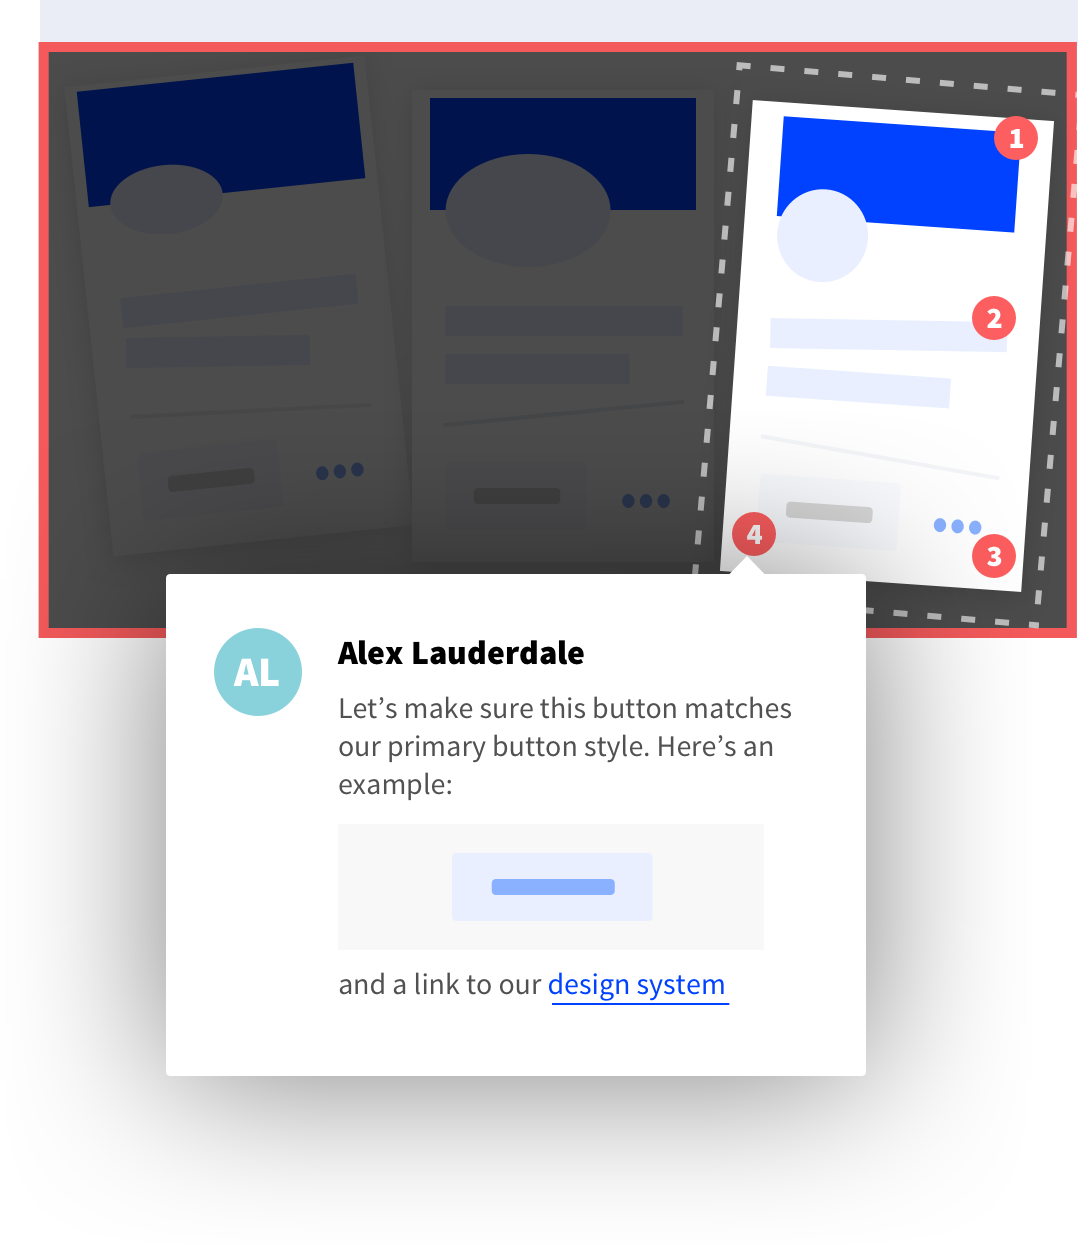
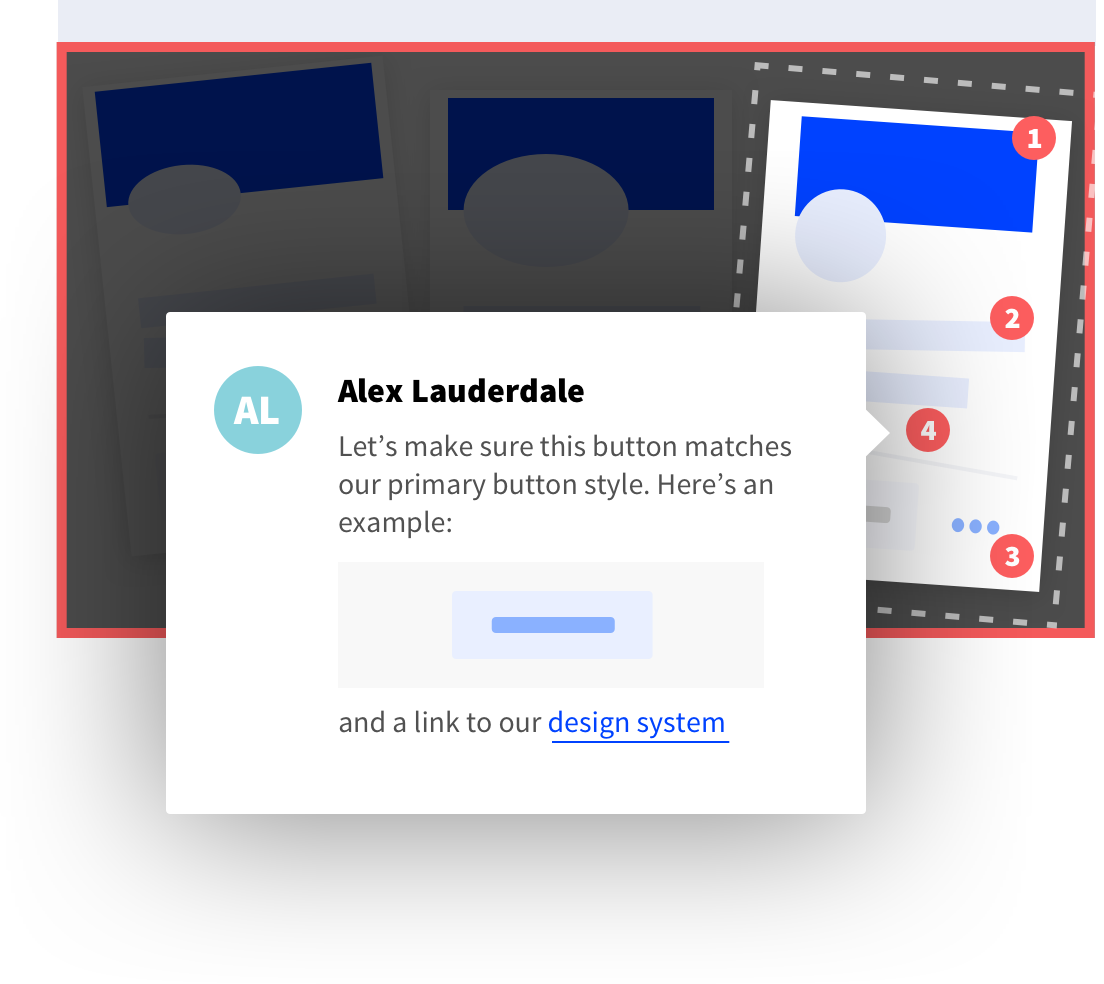
more

Changed region(s): [[0.0304, 0.0305, 1.0, 0.8841]]

diff --git a/tmp/product/review/index.html b/tmp/product/review/index.html
@@ -146,12 +146,12 @@ Notes
 </div>
 <div class='media-body'>
 <h5 class='bold-font quarter-margin-bottom'>
-Tonia
+Randal
 ,
-Giselle
+Doris
 </h5>
 <h5>
-id ut ut voluptatum adipisci accusantium dolor
+debitis eum consequatur enim rerum quas et
 </h5>
 <h6 class='light-text-color'>
 Comment left on
@@ -174,12 +174,12 @@ Mac OS 10.14.0
 </div>
 <div class='media-body'>
 <h5 class='bold-font quarter-margin-bottom'>
-Isabelle
+Kerry
 ,
-Lorie
+Dulce
 </h5>
 <h5>
-illum quis earum eos et voluptas est
+ipsa ipsum corrupti molestias harum praesentium sed
 </h5>
 <h6 class='light-text-color'>
 Comment left on
@@ -202,12 +202,12 @@ Mac OS 10.14.0
 </div>
 <div class='media-body'>
 <h5 class='bold-font quarter-margin-bottom'>
-Billie
+Elaine
 ,
-Darius
+Kerry
 </h5>
 <h5>
-perspiciatis eum explicabo minus ipsum perspiciatis quae
+ipsa occaecati dolor sed id dolor nam
 </h5>
 <h6 class='light-text-color'>
 Comment left on
@@ -230,12 +230,12 @@ Mac OS 10.14.0
 </div>
 <div class='media-body'>
 <h5 class='bold-font quarter-margin-bottom'>
-Camila
+Ciaran
 ,
-Agnes
+Kailey
 </h5>
 <h5>
-sint temporibus vero ut necessitatibus placeat dolorem
+voluptate facilis suscipit voluptatem delectus dignissimos voluptas
 </h5>
 <h6 class='light-text-color'>
 Comment left on
@@ -258,12 +258,12 @@ Mac OS 10.14.0
 </div>
 <div class='media-body'>
 <h5 class='bold-font quarter-margin-bottom'>
-Andres
+Maisie
 ,
-Shirley
+Billy
 </h5>
 <h5>
-aut mollitia blanditiis eveniet qui qui eveniet asperiores
+ea reprehenderit voluptas quia ratione nulla eum repudiandae
 </h5>
 <h6 class='light-text-color'>
 Comment left on
@@ -361,10 +361,10 @@ Delete
 </div>
 </div>
 <h4 class='bold-font quarter-margin-bottom'>
-Alberto Waters
+Omar O'Brien
 </h4>
 <h4>
-quo nobis nesciunt qui voluptatem rerum porro laudantium voluptatem inventore id tempora libero porro excepturi dolor enim recusandae officiis similique
+vel voluptates sapiente alias totam id numquam odit dolorum mollitia voluptas tempora accusamus debitis velit est doloremque ut sit qui
 </h4>
 <a href='#'>
 <img src='../../images/tmp/shot.png' width='85px'>
@@ -399,10 +399,10 @@ Delete
 </div>
 </div>
 <h4 class='bold-font quarter-margin-bottom'>
-Emely McNeill
+Colm Lane
 </h4>
 <h4>
-ut placeat adipisci magni a omnis odit delectus ratione quas a voluptatem laborum id voluptas eos voluptas dolores optio voluptatibus
+totam consequatur non quasi quidem veniam officia sed earum amet sint rerum modi recusandae nesciunt et id aut in cupiditate
 </h4>
 <a href='#'>
 <img src='../../images/tmp/shot.png' width='85px'>
@@ -437,10 +437,10 @@ Delete
 </div>
 </div>
 <h4 class='bold-font quarter-margin-bottom'>
-Clyde Becker
+Bianca Rodgers
 </h4>
 <h4>
-doloremque ut illum neque porro aut nostrum numquam deserunt et perspiciatis quia quia error quos veniam necessitatibus cum beatae maiores
+velit vero qui omnis repudiandae ducimus delectus sequi et molestiae eligendi placeat officia voluptas sapiente qui nemo nemo enim rerum
 </h4>
 <a href='#'>
 <img src='../../images/tmp/shot.png' width='85px'>
@@ -475,10 +475,10 @@ Delete
 </div>
 </div>
 <h4 class='bold-font quarter-margin-bottom'>
-Vance Morse
+Carley Butler
 </h4>
 <h4>
-repudiandae eaque ad omnis eos dolores laborum dolor tempore animi quo commodi a ipsa dicta aut reprehenderit libero cupiditate molestias
+facere omnis eveniet natus doloremque eligendi reprehenderit et eos animi et architecto illum illo dolor quae quo voluptas voluptatem illum
 </h4>
 <a href='#'>
 <img src='../../images/tmp/shot.png' width='85px'>
@@ -513,10 +513,10 @@ Delete
 </div>
 </div>
 <h4 class='bold-font quarter-margin-bottom'>
-Constance Garrett
+Tracy Walton
 </h4>
 <h4>
-nulla tempore provident doloribus reiciendis fuga est fuga consectetur et eos placeat sint animi autem at sint hic consectetur nobis
+nulla non iusto laudantium nostrum explicabo vero adipisci quasi et ipsam pariatur dolorum debitis ea ratione debitis et ut sint
 </h4>
 <a href='#'>
 <img src='../../images/tmp/shot.png' width='85px'>
@@ -551,10 +551,10 @@ Delete
 </div>
 </div>
 <h4 class='bold-font quarter-margin-bottom'>
-Jared Barr
+Alyson Bender
 </h4>
 <h4>
-consectetur cumque placeat sunt officiis consequatur aut dolores est autem qui quo doloremque ipsa architecto quod necessitatibus impedit laudantium sunt
+velit vel voluptatem quia placeat id quam saepe consequatur ipsa reiciendis in voluptatem voluptatibus libero molestiae quo maiores aut quia
 </h4>
 <a href='#'>
 <img src='../../images/tmp/shot.png' width='85px'>
@@ -589,10 +589,10 @@ Delete
 </div>
 </div>
 <h4 class='bold-font quarter-margin-bottom'>
-Vanessa Jennings
+Dwayne Lawrence
 </h4>
 <h4>
-eius sed consectetur facilis dolorum expedita tempora animi aspernatur enim nisi voluptatum error non quis ab enim debitis voluptates corrupti
+impedit saepe et sed nihil deleniti exercitationem sequi veritatis voluptas quisquam vel quia rerum harum iste fugiat voluptatem non veniam
 </h4>
 <a href='#'>
 <img src='../../images/tmp/shot.png' width='85px'>
@@ -627,10 +627,10 @@ Delete
 </div>
 </div>
 <h4 class='bold-font quarter-margin-bottom'>
-Kaylin Alexander
+Patrick May
 </h4>
 <h4>
-qui enim porro suscipit voluptas molestiae sunt magni fugit voluptatem sit voluptatem quibusdam est nihil repellendus modi dolores excepturi qui
+ullam quia voluptatibus aut voluptatem voluptatem nulla mollitia omnis enim consequatur ea delectus repellendus et aut animi nobis temporibus exercitationem
 </h4>
 <a href='#'>
 <img src='../../images/tmp/shot.png' width='85px'>

diff --git a/tmp/index.html b/tmp/index.html
@@ -44,10 +44,10 @@ Try it free
 <div class='col-lg-6'>
 <div class='double-margin-top'>
 <h2 class='market bold-font double-margin-bottom'>
-A better way to collaborate
+A new way to collaborate on websites
 </h2>
 <h2 class='double-margin-bottom'>
-A new kind of work communication tool that helps you get your message across through instantly shareable videos.
+Leave visual feedback directly on your web pages.
 </h2>
 <a class='btn btn-primary btn-lg' href='/welcome/sign-up'>
 Try it now
@@ -63,29 +63,23 @@ Try it now
 </div>
 </div>
 </section>
-<section class='off-white-bg double-margin-bottom'>
-<div class='container'>
-<div class='row'>
-<div class='col'>
-<h2 class='bold-font light-text-color text-center'>
-IT'S SIMPLE
-</h2>
-</div>
-</div>
-</div>
-</section>
 <section>
 <div class='container'>
 <div class='row'>
 <div class='col-md-5'>
+<div class='text-container'>
+<h2 class='accent-text'>
+Just
+</h2>
 <h1 class='bold-font market'>
 Review.
 </h1>
+</div>
 <h1 class='bold-font'>
-Make improvement notes directly in your product
+Make improvement notes directly on your website
 </h1>
 <p class='market'>
-Using our handy live review tool, click through each screen and call-out anything that needs some extra love.
+Using our live review tool, click through each screen and call-out anything that needs fixing.
 </p>
 </div>
 <div class='col-md-7'>
@@ -96,18 +90,23 @@ Using our handy live review tool, click through each screen and call-out anythin
 </div>
 </div>
 </section>
-<section class='inverse-section'>
+<section class='off-white-bg'>
 <div class='container'>
 <div class='row align-items-center'>
 <div class='col-md-5 order-md-2'>
+<div class='text-container'>
+<h2 class='accent-text'>
+Then
+</h2>
 <h1 class='bold-font market'>
-Resolve..
+Resolve.
 </h1>
+</div>
 <h1 class='bold-font'>
-Notes are seen and resolved by developers
+Notes are easily viewed and resolved
 </h1>
 <p class='market'>
-All the notes you create are sent to the people building your product.
+All the notes you create are sent to the people working to improve your website.
 </p>
 </div>
 <div class='col-md-7 order-md-1'>
@@ -118,11 +117,16 @@ All the notes you create are sent to the people building your product.
 </section>
 <section>
 <div class='container'>
-<div class='row'>
-<div class='col'>
+<div class='row justify-content-center'>
+<div class='col-md-4'>
+<div class='text-container'>
+<h2 class='accent-text'>
+And
+</h2>
 <h1 class='bold-font market text-center double-margin-bottom'>
 Repeat.
 </h1>
+</div>
 </div>
 </div>
 <div class='row align-items-center'>
@@ -131,7 +135,7 @@ Repeat.
 Use Volley to make your product shine
 </h1>
 <p class='market'>
-Use the review tools to improve every new feature, release and iteration of your product.
+Use the review tools to improve every new feature, release and iteration of your website.
 </p>
 </div>
 <div class='col-md-8'>

diff --git a/tmp/stylesheets/style.css b/tmp/stylesheets/style.css
@@ -582,13 +582,34 @@ a.product-card {
     .menu-with-button .dropdown-item .button-container i {
       font-size: 20px; }
 
+body.market {
+  background: url("../images/marketing/bg.svg") no-repeat top right; }
+  @media (max-width: 992px) {
+    body.market {
+      background: none; } }
+
 .market section {
   padding: 64px 0; }
 
 #primary-header {
   width: 100%;
-  padding: 20px 0;
-  background: white; }
+  padding: 20px 0; }
+  #primary-header .btn-link {
+    color: white; }
+    @media (max-width: 992px) {
+      #primary-header .btn-link {
+        color: #0042FF; } }
+
+.text-container {
+  position: relative; }
+  .text-container .accent-text {
+    position: absolute;
+    top: 0;
+    left: -30px;
+    font-weight: 900;
+    font-size: 76px;
+    opacity: 0.08;
+    color: #0042FF; }
 
 p.market {
   font-size: 21px;

diff --git a/tmp/styles/index.html b/tmp/styles/index.html
@@ -126,7 +126,7 @@ Heading five
 Heading six
 </h6>
 <p>
-Quia optio est sequi omnis nihil. Est dolor qui debitis in ducimus minus non. Quia dolore voluptate perspiciatis id voluptatem. Voluptatum sit quos sint placeat maxime rerum porro beatae fugiat officia. Deserunt inventore est cumque porro modi possimus qui molestias delectus quod
+Ut delectus labore impedit quidem ipsam et natus accusamus aperiam beatae odit. Eligendi architecto fugit est tenetur. Ut nam eius qui enim numquam qui dolor quasi ex architecto quis dolores accusantium. Sint voluptate molestias impedit voluptatem earum sit earum quos veritatis dolorem sed sequi sit molestiae. Doloremque repudiandae et et aut
 </p>
 <p class='light-font'>
 Light font

diff --git a/source/stylesheets/elements/_home.scss b/source/stylesheets/elements/_home.scss
@@ -1,3 +1,10 @@
+body.market{
+	background:url("../images/marketing/bg.svg") no-repeat top right;
+	@include breakpoint(md) {
+		background: none;
+	}
+}
+
 .market section{
 	padding:$baseline*4 0;
 }
@@ -5,8 +12,26 @@
 #primary-header{
 	width:100%;
 	padding:20px 0;
-	background: white;
+	.btn-link{
+		color:white;
+		@include breakpoint(md) {
+			color:$link-color;
+		}
+	}
 
+}
+
+.text-container{
+	position: relative;
+	.accent-text{
+		position:absolute;
+		top:0;
+		left:-30px;
+		font-weight: 900;
+		font-size: 76px;
+		opacity: 0.08;
+		color: #0042FF;
+	}
 }
 
 p{
